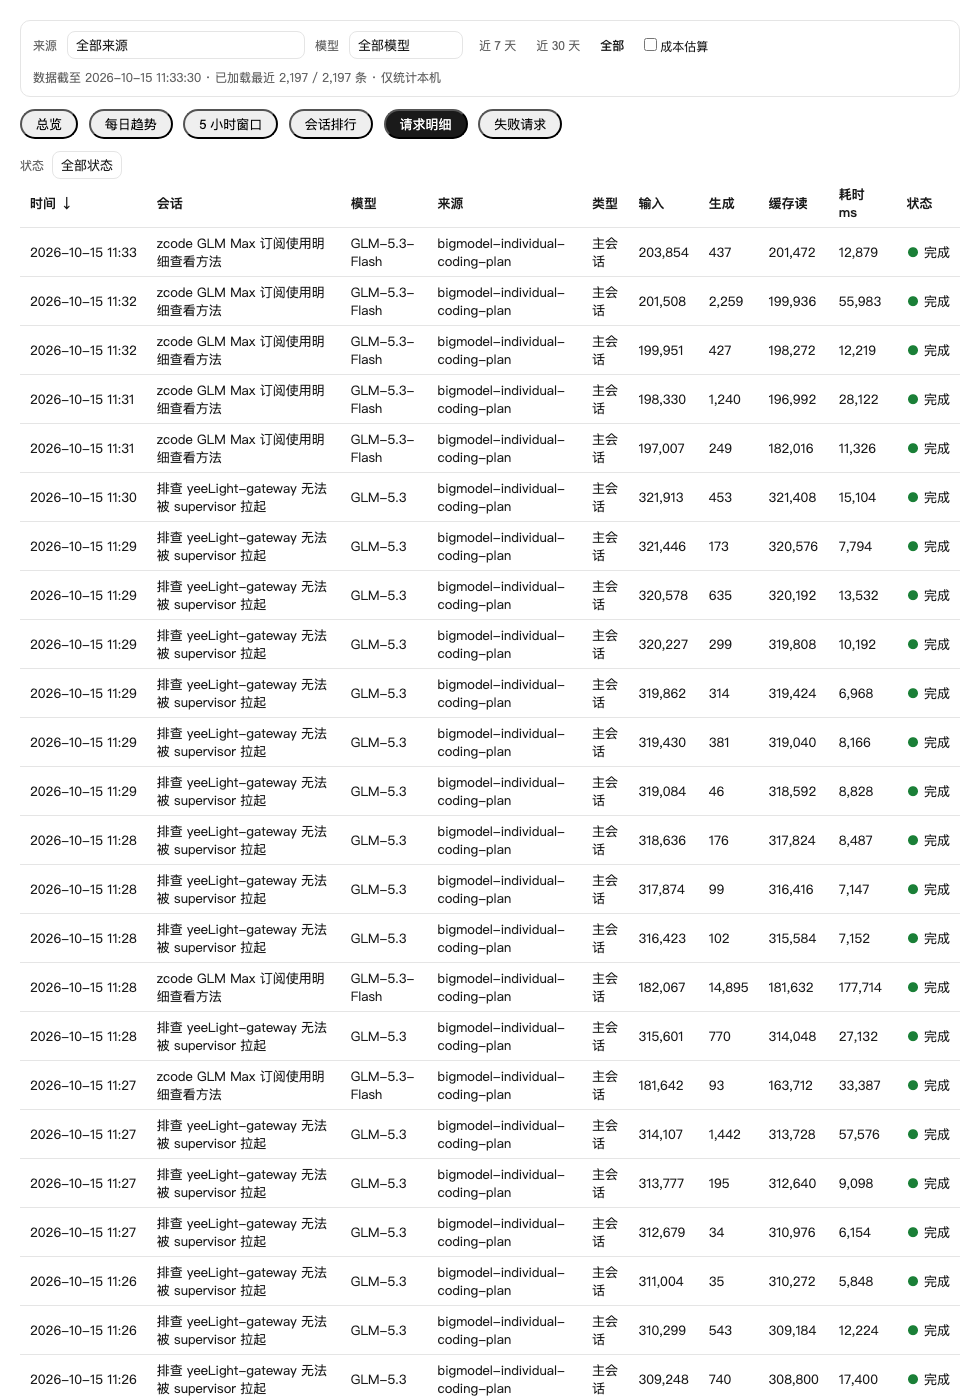
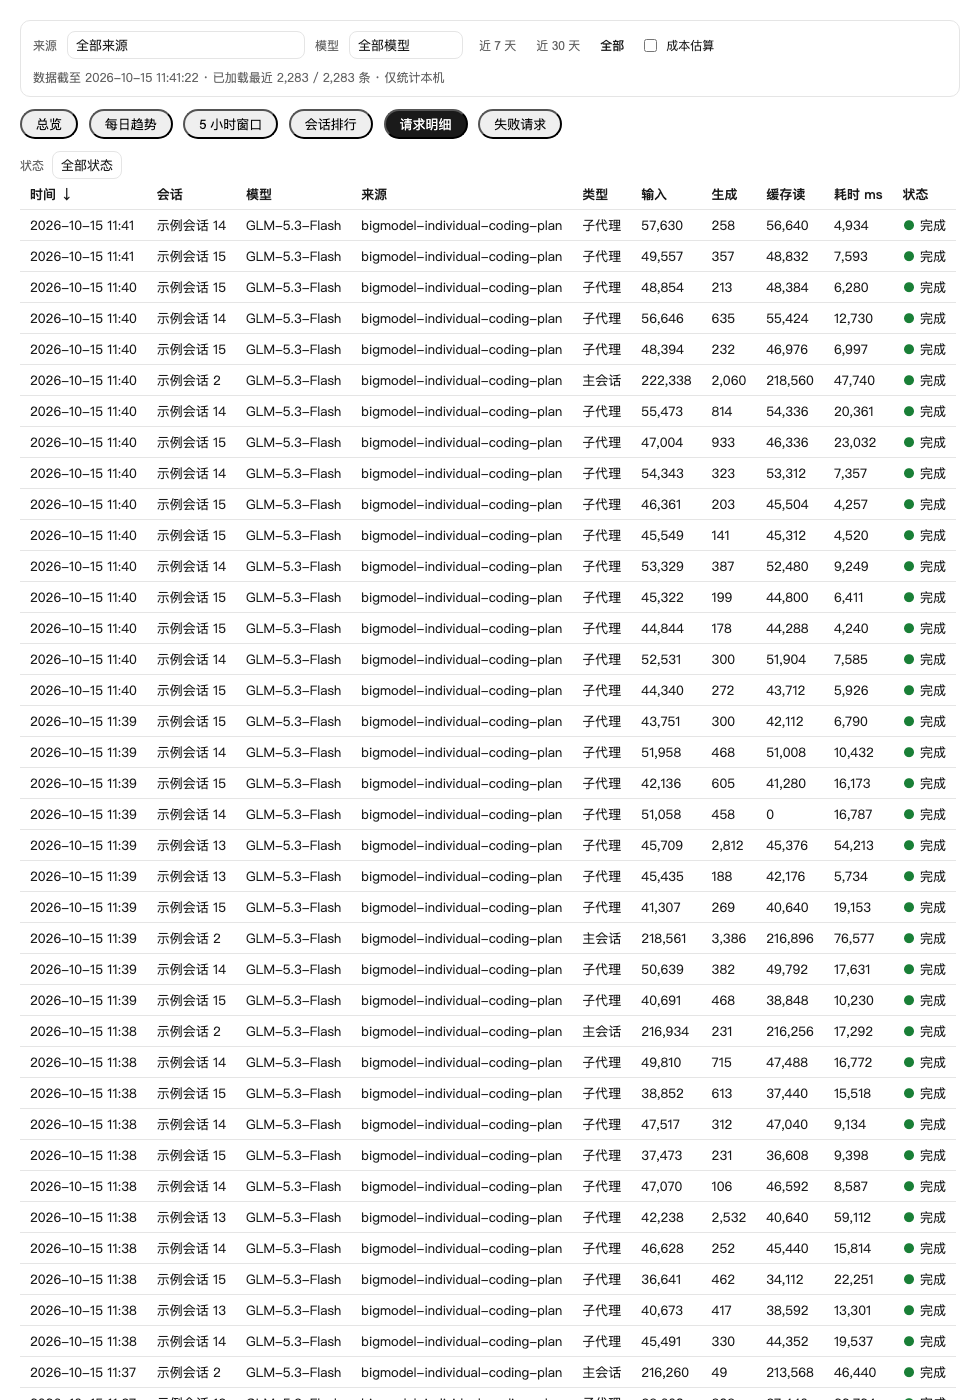
fix: 0.4.1 — scrub session titles in screenshots, configurable dashboard row limit (1-20000)

diff --git a/README.md b/README.md
@@ -12,7 +12,7 @@
 
 - **逐条明细**：每次模型请求一行——时间、会话、模型、来源、主会话/子代理、输入/生成/缓存读 token、耗时、状态
 - **来源区分**：自动区分 `account:*` 官方套餐（如 GLM Coding Plan）与自定义/BYOK 接入，仪表盘按来源堆叠展示每日趋势
-- **交互式仪表盘**（`/usage-ui`）：总览 / 每日趋势 / 5 小时窗口 / 会话排行 / 请求明细 / 失败请求六个标签页；来源、模型、时间范围（近 7 天 / 30 天 / 全部）全局筛选即时生效；表格点击表头排序；界面自动适配 ZCode 明暗主题
+- **交互式仪表盘**（`/usage-ui`）：总览 / 每日趋势 / 5 小时窗口 / 会话排行 / 请求明细 / 失败请求六个标签页；来源、模型、时间范围（近 7 天 / 30 天 / 全部）全局筛选即时生效；表格点击表头排序；界面自动适配 ZCode 明暗主题。默认内嵌最近 3000 条请求，`/usage-ui <条数>` 可调（1–20000）
 - **5 小时窗口**：按相邻请求间隔 ≥5h 切分用量窗口（同 ccusage 口径），当前窗口显示进行中进度与剩余时间
 - **洞察指标**：活跃天数、当前/最长连续活跃、峰值日、缓存命中率、平均耗时、主会话/子代理拆分、最常用工具
 - **活跃热力图**：GitHub 提交风格，按天 token 四分位着色，悬停看当日明细
@@ -101,7 +101,7 @@ git clone https://github.com/axdlee/zcode-usage-detail.git
 
 - 数据源是 ZCode 客户端自动写入的本地 SQLite（`~/.zcode/cli/db/db.sqlite` 的 `model_usage` 表），本插件只做**只读**查询
 - 不联网、不上传、不写库；仪表盘数据在生成时内嵌，仅存在于你自己机器上的一个 HTML 文件
-- 仪表盘默认内嵌最近 3000 条请求，超过时界面会标注覆盖范围
+- 仪表盘默认内嵌最近 3000 条请求，`/usage-ui <条数>` 可调整（1–20000；超过约 8000 条可能超出会话内嵌渲染的体积限制，全量历史请用 `export json`）
 - token 口径：输入列含缓存命中（缓存读单独列出），生成 = 输出 + 思考
 - GLM Coding Plan 的**套餐配额余量**（5 小时池 / 周额度）由服务端计量，不在本地库中，请在 ZCode 的 **Usage Stats → Coding Plan** 查看
 

diff --git a/usage-detail/skills/usage-detail/SKILL.md b/usage-detail/skills/usage-detail/SKILL.md
@@ -42,8 +42,10 @@ bash "<本技能目录>/../../scripts/usage.sh" <子命令> [参数]
 1. 从宿主上下文找到本次会话的可视化输出目录（形如 `~/.zcode/v2/visualizations/<id>`，必须写入该目录），执行：
 
    ```bash
-   bash "<本技能目录>/../../scripts/usage.sh" dashboard "<可视化目录>/usage-dashboard.html"
+   bash "<本技能目录>/../../scripts/usage.sh" dashboard "<可视化目录>/usage-dashboard.html" [条数]
    ```
+
+   条数控制内嵌的最近请求行数（默认 3000，范围 1-20000，可用环境变量 ZCODE_USAGE_LIMIT 覆盖默认值）。超过约 8000 条可能超出会话内嵌渲染的体积限制，更大的历史请改用 `export json`。
 
 2. 在**最终回复**中单独一行输出内容引用（不要放进代码块），宿主会将片段内嵌渲染：
 
@@ -51,9 +53,10 @@ bash "<本技能目录>/../../scripts/usage.sh" <子命令> [参数]
    ::visualize{"path":"<可视化目录>/usage-dashboard.html"}
    ```
 
-3. 仪表盘数据在生成时已内嵌，界面含总览/每日趋势/会话排行/请求明细/失败请求五个标签页，无网络请求。
-4. 若宿主未提供会话可视化目录，退化为普通交付：把生成的文件绝对路径作为 Markdown 链接告知用户，用浏览器打开。
-5. 生成的界面是快照；用户要最新数据时重新执行 dashboard 覆盖同一文件，并在最终回复再次引用。
+3. 仪表盘数据在生成时已内嵌，界面含总览/每日趋势/5小时窗口/会话排行/请求明细/失败请求六个标签页，无网络请求。
+4. 若界面元信息显示"已加载 X / Y 条"且 Y 明显大于 X，主动告知用户：可指定更大条数重新生成，或用 `export json` 导出全量。
+5. 若宿主未提供会话可视化目录，退化为普通交付：把生成的文件绝对路径作为 Markdown 链接告知用户，用浏览器打开。
+6. 生成的界面是快照；用户要最新数据时重新执行 dashboard 覆盖同一文件，并在最终回复再次引用。
 
 ## 输出要求
 

diff --git a/usage-detail/commands/usage-ui.md b/usage-detail/commands/usage-ui.md
@@ -1,12 +1,13 @@
 ---
-description: 生成交互式 ZCode 用量仪表盘，内嵌渲染在会话中（总览/趋势/会话/明细/失败）。
-argument-hint: "[可选：改用 summary|recent|day|days|sessions|models|errors 文本查询]"
+description: 生成交互式 ZCode 用量仪表盘，内嵌渲染在会话中（总览/趋势/5小时窗口/会话/明细/失败）。
+argument-hint: "[内嵌条数，默认 3000；或改用 summary|recent|day|days|sessions|models|errors 文本查询]"
 skills: usage-detail
 ---
 
 用户要以图形界面查看 ZCode 本地用量。按 `usage-detail` 技能的「仪表盘界面（dashboard）」流程执行：
 
-1. 运行插件脚本 `dashboard` 子命令，输出文件写入宿主提供的会话可视化目录；
+1. 运行插件脚本 `dashboard` 子命令，输出文件写入宿主提供的会话可视化目录；$ARGUMENTS 为纯数字时作为内嵌条数传入（默认 3000，范围 1-20000）。
 2. 在最终回复中用 `::visualize` 引用生成的文件，内嵌渲染给用户。
+3. 界面元信息显示"已加载 X / Y 条"且 Y 明显更大时，主动提示：可指定更大条数重新生成，或用 `/usage export json` 导出全量。
 
 仅当 $ARGUMENTS 指定了具体文本子命令（summary/recent/day/days/sessions/models/errors）时，才改为文本表格输出。查询为只读本地 SQLite，无网络请求。
